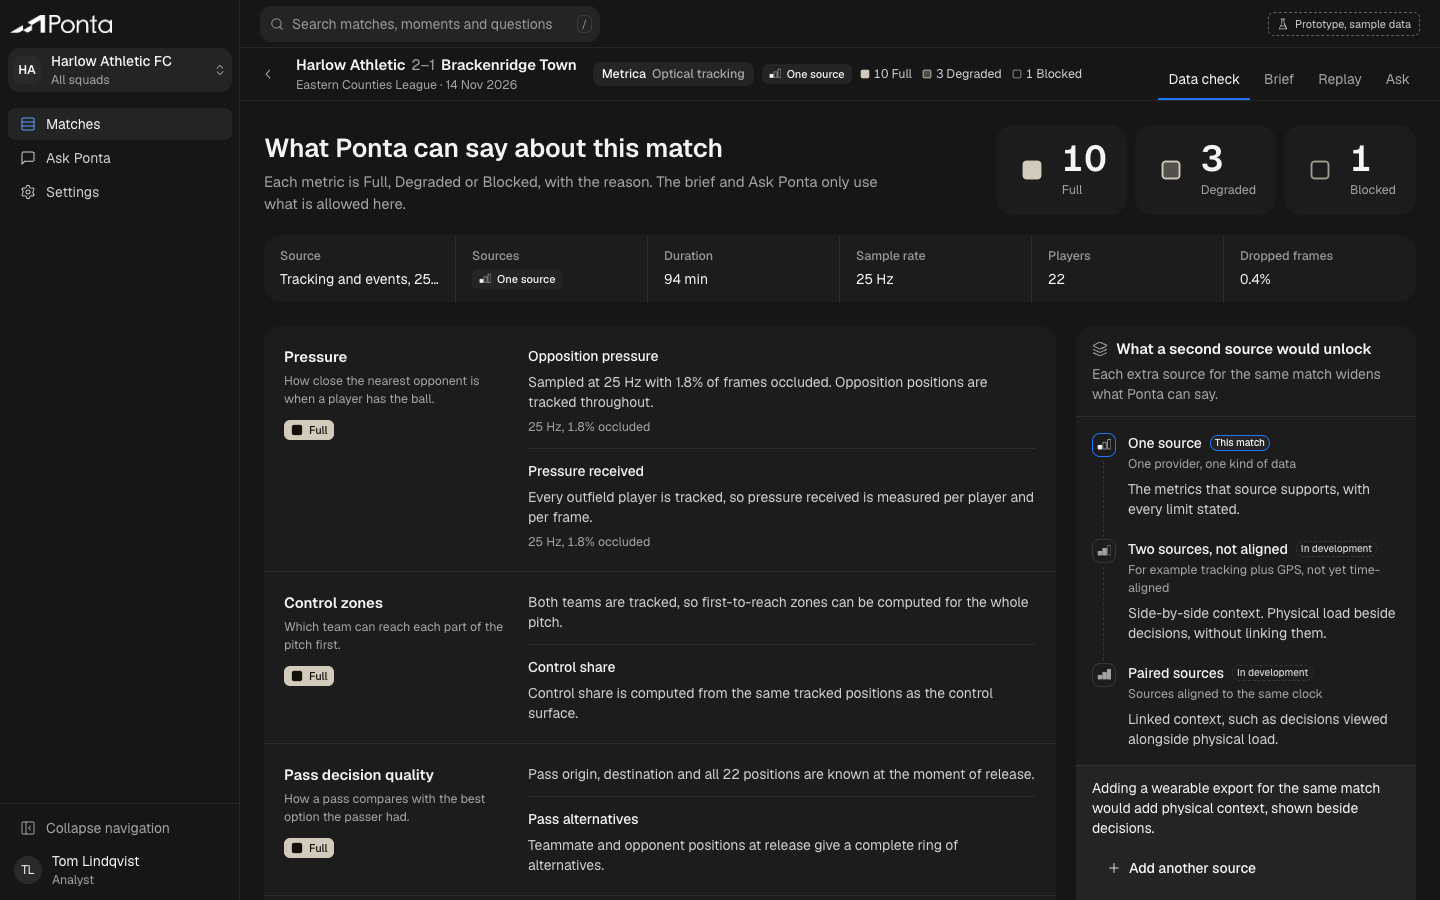
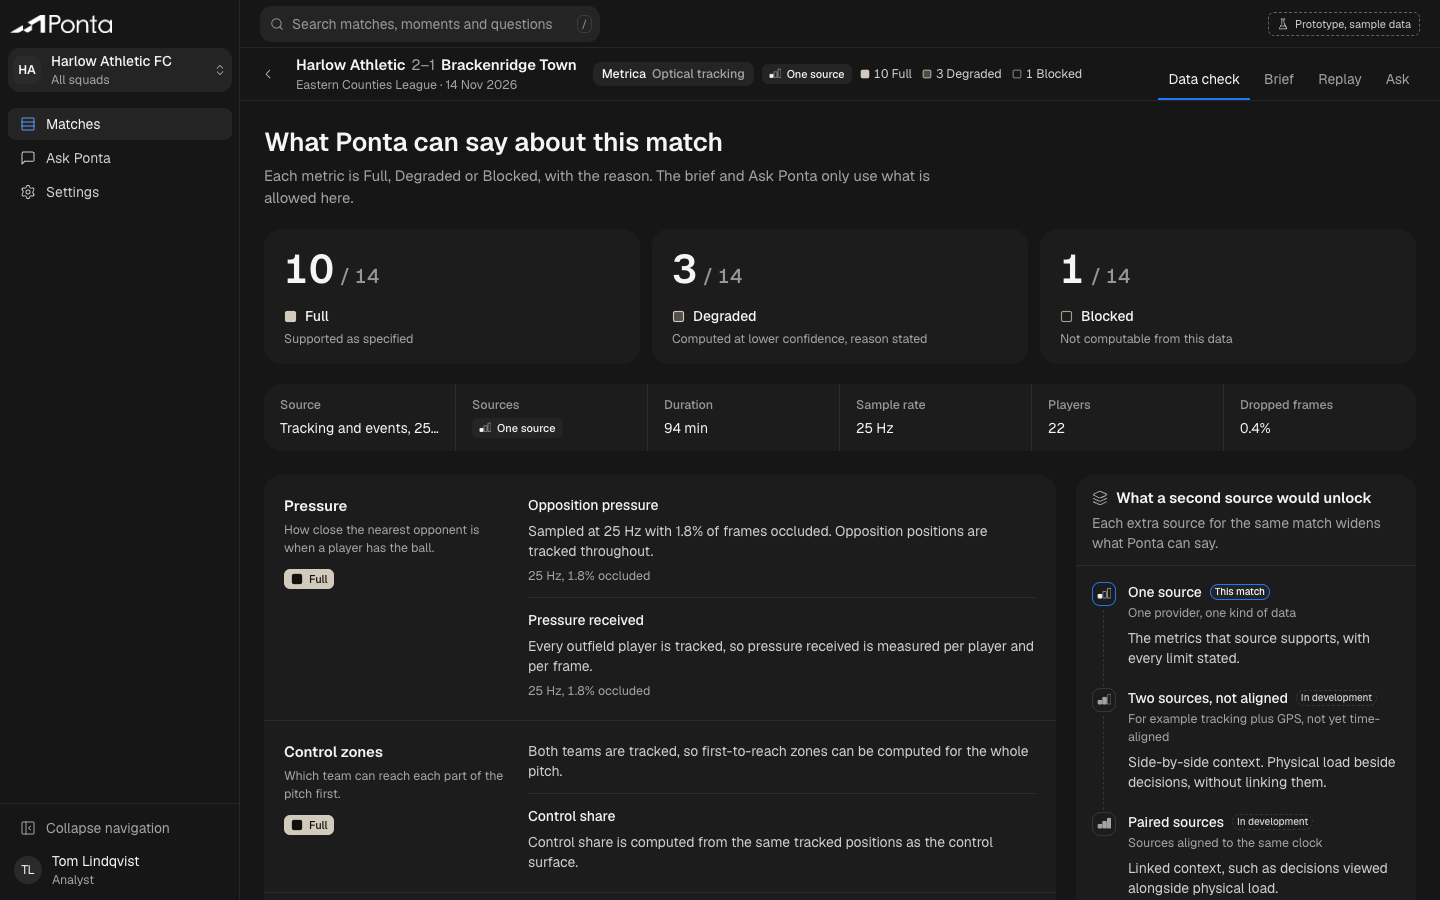
Data check: count tiles rebuilt as a row of equal big-figure tiles
One large figure out of the total, the state mark with its word, and a line saying what
the state means; moved under the intro instead of crowding the title.

diff --git a/src/components/parity/ParityGate.tsx b/src/components/parity/ParityGate.tsx
@@ -12,15 +12,23 @@ import { InlineAlert } from '@/components/ui/feedback'
 import { ParityBadge, ParityIcon, Tag, TierBadge, TierGlyph } from '@/components/ui/badges'
 import { useApp } from '@/state/app'
 
-function SummaryStat({ state, n }: { state: ParityState; n: number }) {
+/**
+ * One count as a tile (reference: one large figure, a small label beneath). The state mark sits
+ * with its word, not beside the number, so the figure leads.
+ */
+function SummaryStat({ state, n, total }: { state: ParityState; n: number; total: number }) {
   return (
-    <div className="flex items-center gap-3.5 rounded-xl bg-s1 px-5 py-4">
-      <span className={cn('flex size-8 items-center justify-center', state === 'full' ? 'text-parity' : state === 'degraded' ? 'text-parity' : 'text-parity-dim')}>
-        <ParityIcon state={state} size={22} />
-      </span>
-      <div>
-        <p className="font-mono text-2xl font-semibold leading-none tabular-nums text-fg-1">{n}</p>
-        <p className="mt-1 text-xs text-fg-3">{t(`parity.${state}`)}</p>
+    <div className="flex flex-col justify-between rounded-xl bg-s1 px-5 pb-4 pt-5">
+      <p className="font-mono text-[40px] font-semibold leading-none tracking-tight tabular-nums text-fg-1">
+        {n}
+        <span className="ml-1.5 text-lg font-medium text-fg-4">/ {total}</span>
+      </p>
+      <div className="mt-4">
+        <p className={cn('flex items-center gap-2 text-sm font-medium', state === 'blocked' ? 'text-parity-dim' : 'text-parity')}>
+          <ParityIcon state={state} size={13} />
+          <span className="text-fg-1">{t(`parity.${state}`)}</span>
+        </p>
+        <p className="mt-1 text-xs text-fg-3">{t(`gate.stat_hint_${state}`)}</p>
       </div>
     </div>
   )
@@ -158,17 +166,20 @@ export function ParityGate({ match, continueLabel, onContinue, continueTo, foote
   )
   return (
     <div className={embedded ? 'flex flex-1 flex-col' : 'mx-auto max-w-[1240px] px-6 py-6'}>
-      <div className="flex flex-wrap items-end justify-between gap-4">
-        <div className="max-w-[640px]">
-          <h2 className="text-xl font-semibold text-fg-1">{t('gate.title')}</h2>
-          <p className="mt-1.5 text-base text-fg-3">{t('gate.intro')}</p>
-        </div>
-        <div className="flex items-center gap-2">
-          <SummaryStat state="full" n={report.summary.full} />
-          <SummaryStat state="degraded" n={report.summary.degraded} />
-          <SummaryStat state="blocked" n={report.summary.blocked} />
-        </div>
+      <div className="max-w-[720px]">
+        <h2 className="text-xl font-semibold text-fg-1">{t('gate.title')}</h2>
+        <p className="mt-1.5 text-base text-fg-3">{t('gate.intro')}</p>
       </div>
+      {(() => {
+        const total = report.summary.full + report.summary.degraded + report.summary.blocked
+        return (
+          <div className="mt-5 grid grid-cols-3 gap-3">
+            <SummaryStat state="full" n={report.summary.full} total={total} />
+            <SummaryStat state="degraded" n={report.summary.degraded} total={total} />
+            <SummaryStat state="blocked" n={report.summary.blocked} total={total} />
+          </div>
+        )
+      })()}
 
       {dev ? (
         <InlineAlert className="mt-5" icon={<FlaskConical className="size-4" />} title={t('gate.dev_title')}>

diff --git a/src/i18n/en.ts b/src/i18n/en.ts
@@ -321,6 +321,9 @@ const en: Record<string, string> = {
   'gate.intro': 'Each metric is Full, Degraded or Blocked, with the reason. The brief and Ask Ponta only use what is allowed here.',
   'gate.dev_title': 'Multi-source matches are in development',
   'gate.dev_body': 'Two-source and paired-source matches need more than one source for the same match. The report below shows what they are designed to unlock. Nothing here is live.',
+  'gate.stat_hint_full': 'Supported as specified',
+  'gate.stat_hint_degraded': 'Computed at lower confidence, reason stated',
+  'gate.stat_hint_blocked': 'Not computable from this data',
   'gate.stat_source': 'Source',
   'gate.stat_tier': 'Sources',
   'gate.stat_duration': 'Duration',
